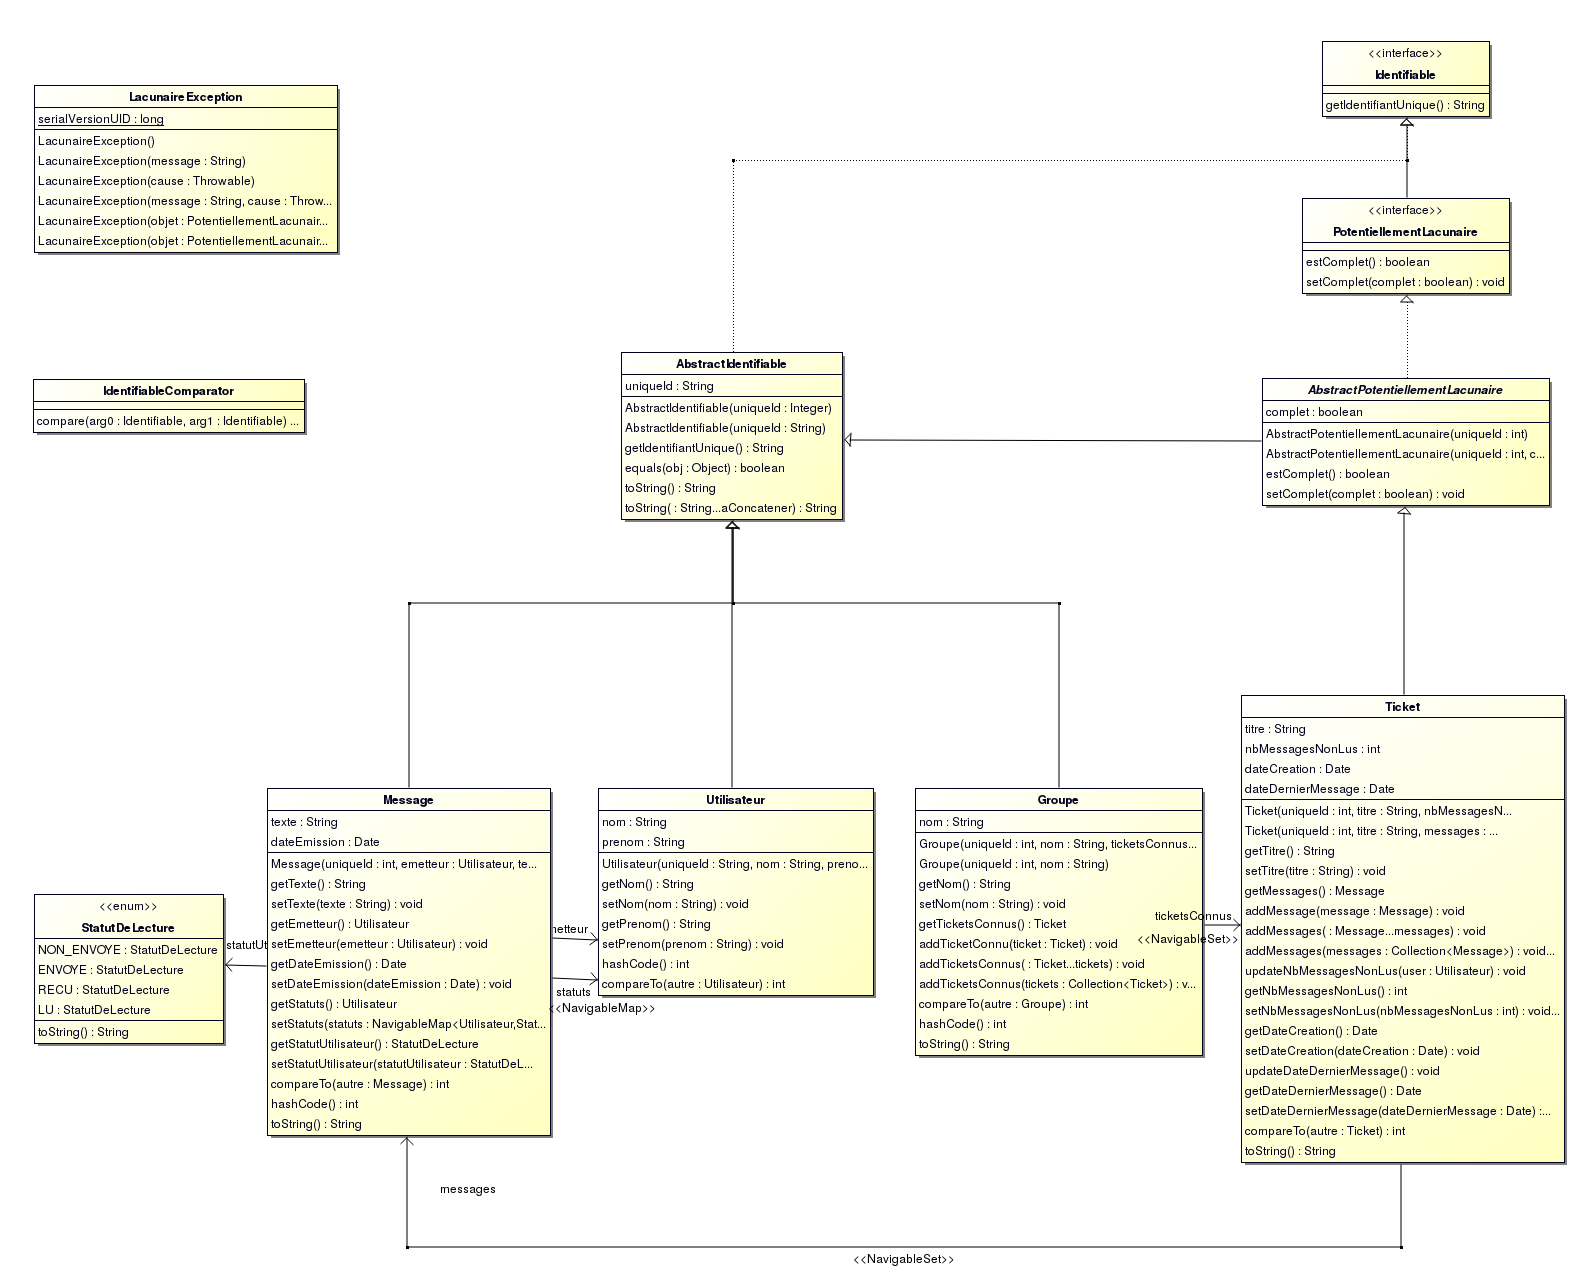
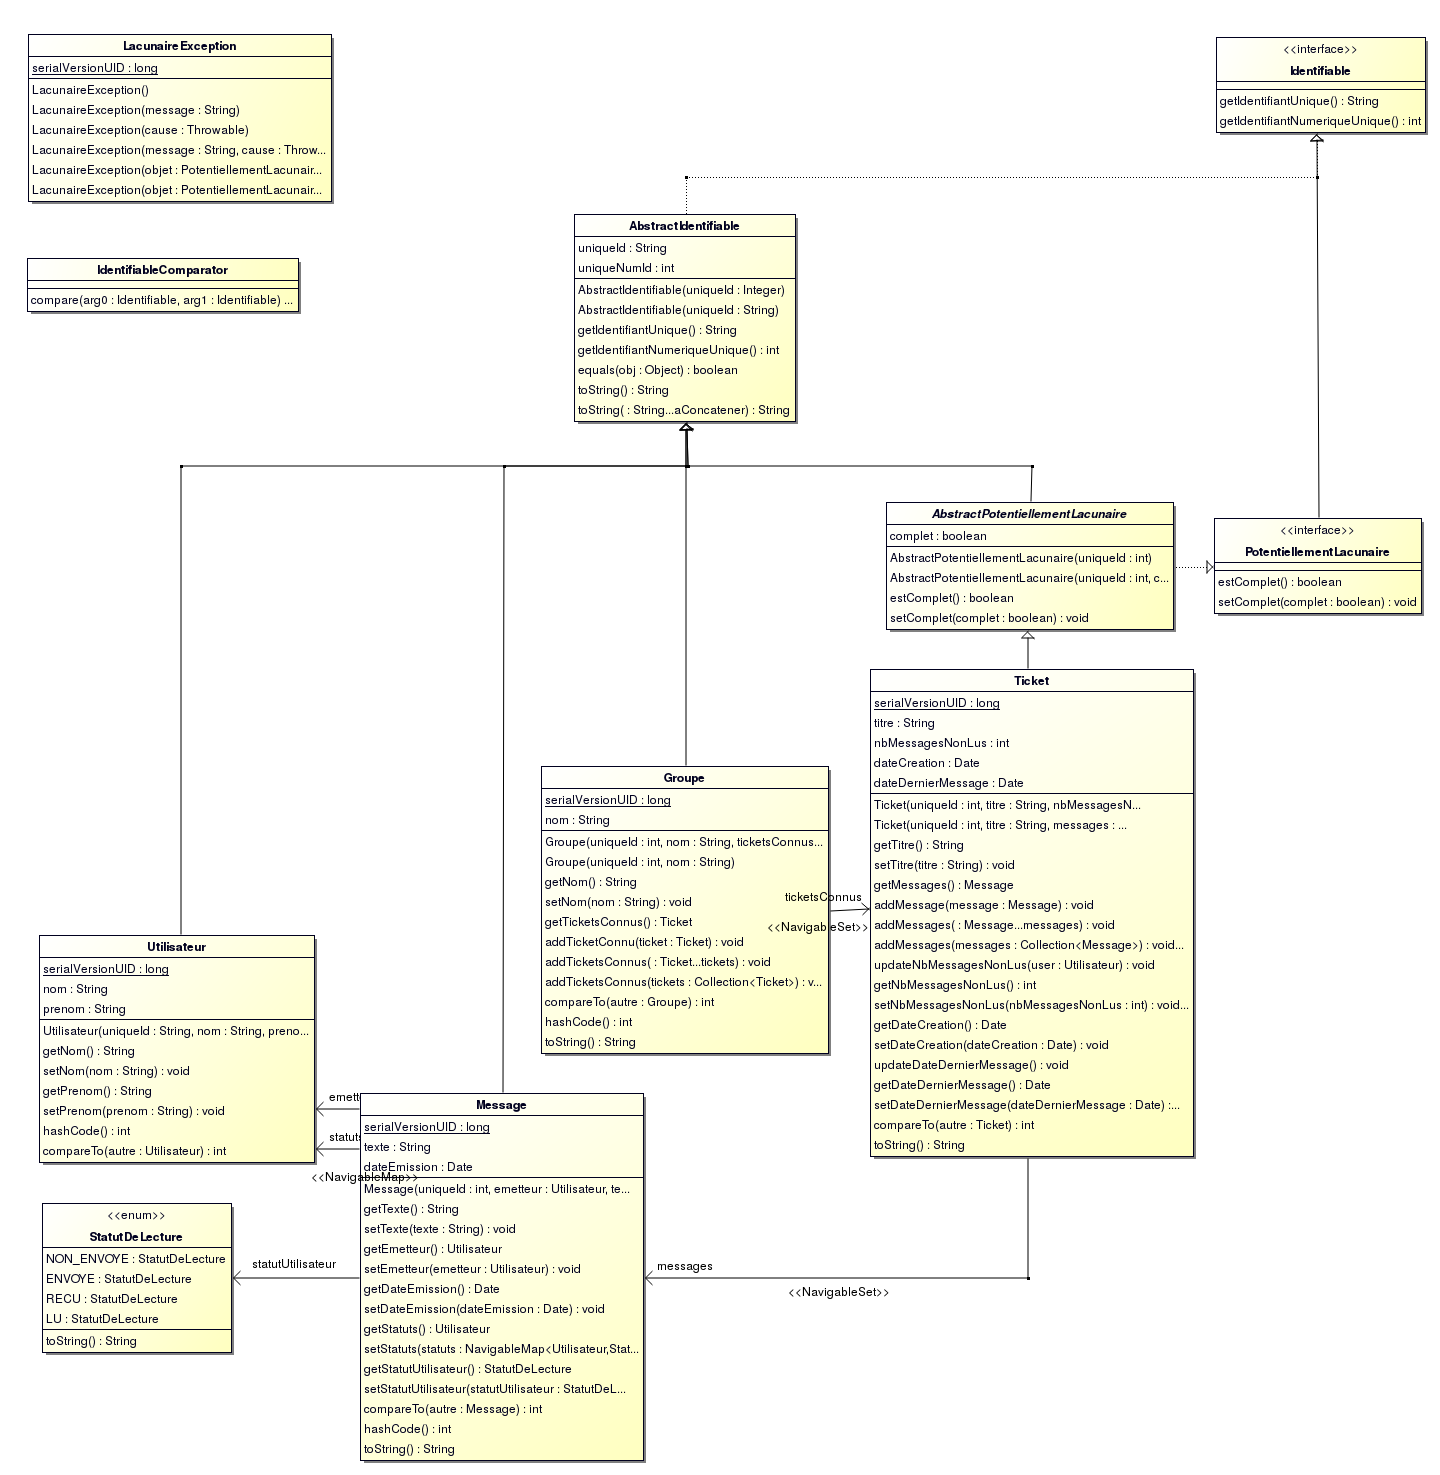
Modèle : Serializable
- Ajout de l'interface Serializable à : Groupe, Ticket, Message et Utilisateur
 - Constructeur de Ticket non lacunaire : la date du dernier message non lu est calculée
 - Fichiers Readme et diagramme de classe actualisés
 - Makefile (encore bien vide) : il génère la doc en utf8 (affichage correct des accents)

diff --git a/src/modele/Ticket.java b/src/modele/Ticket.java
@@ -7,6 +7,7 @@
  */
 package modele;
 
+import java.io.Serializable;
 import java.util.Collection;
 import java.util.Date;
 import java.util.NavigableSet;
@@ -15,8 +16,9 @@ import java.util.TreeSet;
 /**
  * 
  */
-public class Ticket extends AbstractPotentiellementLacunaire implements Comparable<Ticket> {
+public class Ticket extends AbstractPotentiellementLacunaire implements Comparable<Ticket>, Serializable {
 	
+	private static final long serialVersionUID = -288563539327011854L;
 	private String titre;
 	private NavigableSet<Message> messages;
 	private int nbMessagesNonLus = 0;
@@ -46,12 +48,12 @@ public class Ticket extends AbstractPotentiellementLacunaire implements Comparab
 	 * @param dateCreation Date de création du ticket
 	 */
 	public Ticket(int uniqueId, String titre, NavigableSet<Message> messages, 
-			Date dateCreation, Date dateDernierMessage) {
+			Date dateCreation) {
 		super(uniqueId, true);
 		setTitre(titre);
 		this.messages = messages;
 		setDateCreation(dateCreation);
-		setDateDernierMessage(dateDernierMessage);
+		updateDateDernierMessage();
 	}
 	
 	
@@ -131,6 +133,9 @@ public class Ticket extends AbstractPotentiellementLacunaire implements Comparab
 	 * Obtenir le nombre de messages non lus
 	 * Ce nombre peut être recalculé avec updateNbMessagesNonLus, 
 	 * si le ticket n'est pas incomplet
+	 * 
+	 * Note : cette valeure concerne les message non lus d'un utilisateur 
+	 * (et non pas de tout le groupe). Est-ce ce qu'on souhaite ?
 	 * @return Le nombre de messages non lus
 	 */
 	public int getNbMessagesNonLus() {

diff --git a/src/tests/TestModele.java b/src/tests/TestModele.java
@@ -7,6 +7,8 @@
  */
 package tests;
 
+import java.io.IOException;
+import java.io.ObjectOutputStream;
 import java.text.DateFormat;
 import java.text.ParseException;
 import java.text.SimpleDateFormat;
@@ -65,7 +67,7 @@ public class TestModele {
 			statuts.put(monique, StatutDeLecture.RECU);
 			messages.add(new Message(4, michel, "Merci (en retard)", df.parse("02/06/2017 01:17:18"), statuts));
 			
-			g.addTicketConnu(new Ticket(5, "mon ticket", messages, new Date(), new Date()));
+			g.addTicketConnu(new Ticket(5, "mon ticket", messages, df.parse("26/5/2017 15:20:11")));
 		}
 		catch (ParseException e){
 			e.printStackTrace();
@@ -98,6 +100,17 @@ public class TestModele {
 			}
 		}
 			
+		
+		try (ObjectOutputStream oos = new ObjectOutputStream(System.out)){
+			oos.writeObject(g);
+		}
+		catch (IOException e){
+			System.err.println("\n\n" + e + e.getMessage());
+			e.printStackTrace();
+		}
+		
+		
 	}
+	
 
 }

diff --git a/src/modele/Message.java b/src/modele/Message.java
@@ -7,6 +7,7 @@
  */
 package modele;
 
+import java.io.Serializable;
 import java.util.Date;
 import java.util.Map;
 import java.util.NavigableMap;
@@ -14,8 +15,9 @@ import java.util.NavigableMap;
 /**
  * Message émis par un Utilisateur sur un Ticket
  */
-public class Message extends AbstractIdentifiable implements Comparable<Message> {
+public class Message extends AbstractIdentifiable implements Comparable<Message>, Serializable {
 
+	private static final long serialVersionUID = 7293458972472166742L;
 	private String texte = null;
 	private Utilisateur emetteur = null;
 	private Date dateEmission;

diff --git a/src/modele/Groupe.java b/src/modele/Groupe.java
@@ -7,6 +7,7 @@
  */
 package modele;
 
+import java.io.Serializable;
 import java.util.Collection;
 import java.util.NavigableSet;
 import java.util.TreeSet;
@@ -14,8 +15,9 @@ import java.util.TreeSet;
 /**
  * 
  */
-public class Groupe extends AbstractIdentifiable implements Comparable<Groupe> {
+public class Groupe extends AbstractIdentifiable implements Comparable<Groupe>, Serializable {
 
+	private static final long serialVersionUID = 4918240433945463710L;
 	private String nom;
 	private NavigableSet<Ticket> ticketsConnus;
 

diff --git a/src/modele/Utilisateur.java b/src/modele/Utilisateur.java
@@ -7,11 +7,14 @@
  */
 package modele;
 
+import java.io.Serializable;
+
 /**
  * 
  */
-public class Utilisateur extends AbstractIdentifiable implements Comparable<Utilisateur> {
+public class Utilisateur extends AbstractIdentifiable implements Comparable<Utilisateur>, Serializable {
 
+	private static final long serialVersionUID = 6393296873908620109L;
 	private String nom;
 	private String prenom;
 	

diff --git a/src/modele/README.md b/src/modele/README.md
@@ -1,0 +1,30 @@
+# Package *modele*
+
+Le modèle de données est dans le package *modele*.
+
+### Types
+
+**Types énumérés :**
+
+ - **StatutDeLecture** : lu, non lu, etc.
+ 
+**Interfaces :**
+
+ - **Identifiable** : Objets possédant un identifiant unique 
+ (typiquement, celui utilisé par mysql).
+ - **PotentiellementLacunaire** : Objets pouvant être instanciés avec tout ou partie de leurs données. Ces dernières peuvent être insérées a posteriori.
+
+**Classes modélisant les données :**
+
+ - **Utilisateur**
+ - **Groupe**
+ - **Ticket**
+ - **Message**
+
+Ces quatre classes implémentent Serializable, Comparable, Identifiable.
+Seule Ticket est PotentiellementLacunaire.
+
+
+### Diagramme de classe
+
+![Diagramme de classe](../../doc/class_diagram_modele.png) 

diff --git a/src/README.md b/src/README.md
@@ -4,22 +4,5 @@ Code source des packages java.
 
 ### Package *modele*
 
-Le modèle de données est dans le package *modele*.
+Le modèle de données : classes Groupe, Ticket, Message, Utilisateur.
 
-Types énumérés : 
-
- - **StatutDeLecture** : lu, non lu, etc.
-
-Interfaces :
-
- - **Identifiable** : Objets possédant un identifiant unique 
- (typiquement, celui utilisé par mysql).
- - **PotentiellementLacunaire** : Objets pouvant être instanciés avec tout ou 
- partie de leurs données. Ces dernières peuvent être insérées a posteriori.
-
-Classes modélisant les données : 
-
- - **Utilisateur**
- - **Groupe**
- - **Ticket**
- - **Message**
